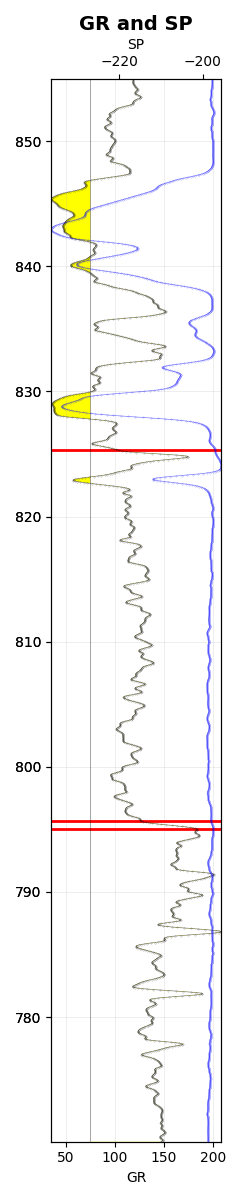
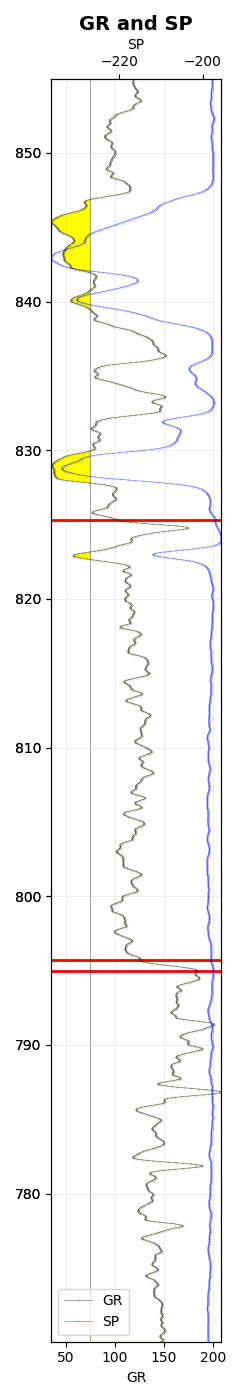
aesthetic things

diff --git a/examples/1_6_andy0612_driver.py b/examples/1_6_andy0612_driver.py
@@ -23,7 +23,7 @@ def main():
     ax1 = ax_list[0]
     col1 = col_list[0]
 
-    fig, ax = plt.subplots( figsize=(col1 * 1.2, 12))
+    fig, ax = plt.subplots(figsize=(col1 * 1.2, 14))
 
     top = well_tops_list[0]
     for horz, depth in top.items():
@@ -31,7 +31,7 @@ def main():
             y = float(depth)
             ax.axhline(y=y, color='red', lw=2, ls='-')
 
-    # creating a new axis but for same graph
+    # creating a new x-axis on the top for next curve but for same graph
     ax2 = ax.twiny()
 
     for curve in ax1:
@@ -39,22 +39,26 @@ def main():
         if curve == 'GR':
             df.plot(
                 x='GR', y='DEPTH', color='black', ax=ax,
-                linewidth=0.5, marker='o', markersize=0.2, alpha=0.5, legend=False)
+                linewidth=0.5, marker='o', markersize=0.2, alpha=0.5, label='GR')
             ax.fill_betweenx(df['DEPTH'], df['GR'], 75, facecolor='yellow')
             ax.fill_betweenx(df['DEPTH'], df['GR'], 0, facecolor='white')
             ax.axvline(75, color='black', linewidth=0.5, alpha=0.5)
-            ax.set_xlabel('GR')
         else:
             df.plot(
-                x=curve, y='DEPTH', color='blue', ax=ax2,
-                linewidth=0.5, marker='o', markersize=0.2, alpha=0.5, legend=False)
-            ax2.set_xlabel(curve)
+                x=curve, y='DEPTH', color='blue', ax=ax2, label=curve,
+                linewidth=0.5, marker='o', markersize=0.2, alpha=0.5)
 
+    # adjusting proper y limits
     ax.set_ylim(df['DEPTH'].min(), df['DEPTH'].max())
-
     # x axis limits
     ax.set_xlim(df[ax1[0]].min(), df[ax1[0]].max())
     ax2.set_xlim(df[ax1[1]].min(), df[ax1[1]].max())
+
+    # combining the legends and putting bottom left
+    lines_1, labels_1 = ax.get_legend_handles_labels()
+    lines_2, labels_2 = ax2.get_legend_handles_labels()
+    ax.legend(lines_1 + lines_2, labels_1 + labels_2, loc='lower left')
+    ax2.get_legend().remove() if ax2.get_legend() else None
 
     ax.grid(True, linestyle='-', alpha=0.3, linewidth=0.5)
     ax.set_title(f'{ax1[0]} and {ax1[1]}', fontweight='bold', fontsize=14)
